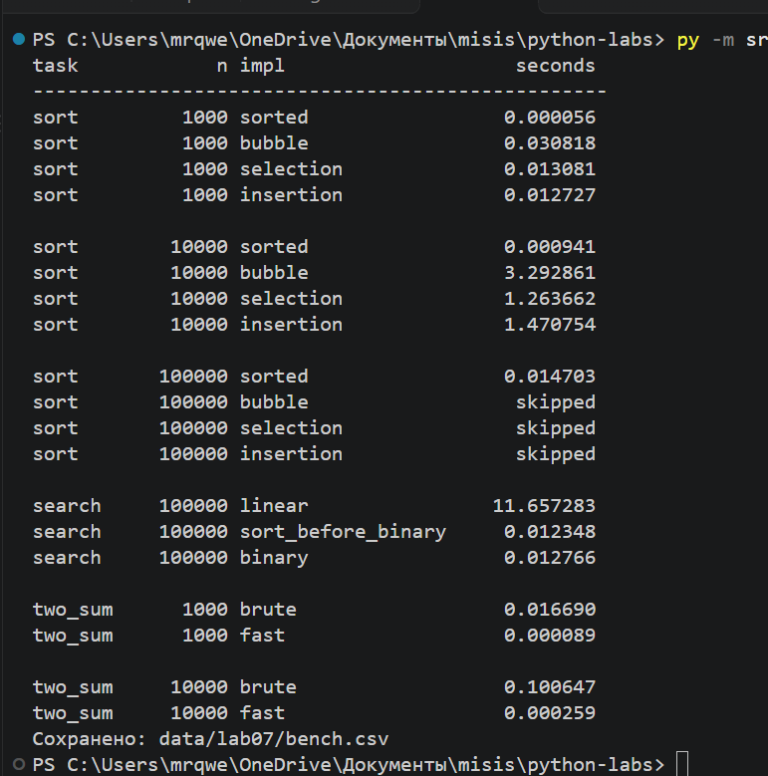
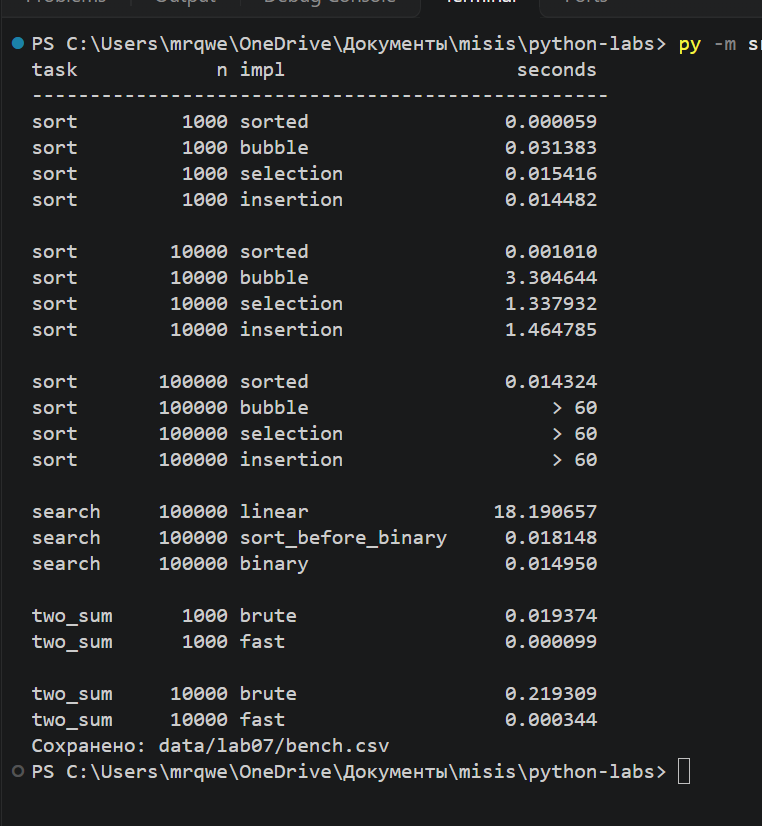
update laba07 benchmark screenshot

Changed region(s): [[0.0, 0.0, 1.0, 1.0]]

diff --git a/README.md b/README.md
@@ -89,8 +89,8 @@ py -m src.lab07.bench
 ```text
 task            n impl                    seconds
 --------------------------------------------------
-sort         1000 sorted                 0.000056
-sort         1000 bubble                 0.030818
+sort         1000 sorted                 0.000059
+sort         1000 bubble                 0.031383
 ...
 Сохранено: data/lab07/bench.csv
 ```
@@ -99,20 +99,20 @@ sort         1000 bubble                 0.030818
 
 ### Выводы
 
-При увеличении n с 1 000 до 10 000 пузырёк замедлился примерно в 107 раз:
-0,030818 → 3,292861 с. Это согласуется с квадратичной сложностью O(n²),
+При увеличении n с 1 000 до 10 000 пузырёк замедлился примерно в 105 раз:
+0,031383 → 3,304644 с. Это согласуется с квадратичной сложностью O(n²),
 при которой десятикратный рост размера даёт примерно стократный рост работы.
-У `sorted` время выросло примерно в 16,8 и 15,6 раза на соседних размерах:
+У `sorted` время выросло примерно в 17,1 и 14,2 раза на соседних размерах:
 рост O(n log n) существенно медленнее квадратичного, а точные отношения зависят
-от данных и условий измерения. На 100 000 элементов `sorted` затратил 0,014703 с;
+от данных и условий измерения. На 100 000 элементов `sorted` затратил 0,014324 с;
 свои квадратичные сортировки пропущены по ограничению размера.
 
 Бинарный поиск требует отсортированного списка, иначе отбрасывание половины
-диапазона некорректно. На 10 000 запросов линейный поиск затратил 11,657283 с,
-бинарный — 0,012766 с, подготовка — 0,012348 с. С учётом сортировки бинарный
-вариант занял 0,025114 с, выигрыш составил примерно 464 раза.
+диапазона некорректно. На 10 000 запросов линейный поиск затратил 18,190657 с,
+бинарный — 0,014950 с, подготовка — 0,018148 с. С учётом сортировки бинарный
+вариант занял 0,033098 с, выигрыш составил примерно 550 раз.
 Сортировка окупается при многократных запросах; по средним временам этого замера —
-примерно с 11-го запроса. В Two Sum словарь оказался быстрее перебора;
+примерно с 10-го запроса. В Two Sum словарь оказался быстрее перебора;
 время зависит и от положения найденной пары. Проверка выполнила 798 проверок,
 расхождений на итоговом прогоне нет. При подготовке исправлены возврат `-1`
 в бинарном поиске и запись просмотренных чисел в словарь в быстром Two Sum.

diff --git a/src/lab07/README.md b/src/lab07/README.md
@@ -87,8 +87,8 @@ py -m src.lab07.bench
 ```text
 task            n impl                    seconds
 --------------------------------------------------
-sort         1000 sorted                 0.000056
-sort         1000 bubble                 0.030818
+sort         1000 sorted                 0.000059
+sort         1000 bubble                 0.031383
 ...
 Сохранено: data/lab07/bench.csv
 ```
@@ -97,20 +97,20 @@ sort         1000 bubble                 0.030818
 
 ## Выводы
 
-При увеличении n с 1 000 до 10 000 пузырёк замедлился примерно в 107 раз:
-0,030818 → 3,292861 с. Это согласуется с квадратичной сложностью O(n²),
+При увеличении n с 1 000 до 10 000 пузырёк замедлился примерно в 105 раз:
+0,031383 → 3,304644 с. Это согласуется с квадратичной сложностью O(n²),
 при которой десятикратный рост размера даёт примерно стократный рост работы.
-У `sorted` время выросло примерно в 16,8 и 15,6 раза на соседних размерах:
+У `sorted` время выросло примерно в 17,1 и 14,2 раза на соседних размерах:
 рост O(n log n) существенно медленнее квадратичного, а точные отношения зависят
-от данных и условий измерения. На 100 000 элементов `sorted` затратил 0,014703 с;
+от данных и условий измерения. На 100 000 элементов `sorted` затратил 0,014324 с;
 свои квадратичные сортировки пропущены по ограничению размера.
 
 Бинарный поиск требует отсортированного списка, иначе отбрасывание половины
-диапазона некорректно. На 10 000 запросов линейный поиск затратил 11,657283 с,
-бинарный — 0,012766 с, подготовка — 0,012348 с. С учётом сортировки бинарный
-вариант занял 0,025114 с, выигрыш составил примерно 464 раза.
+диапазона некорректно. На 10 000 запросов линейный поиск затратил 18,190657 с,
+бинарный — 0,014950 с, подготовка — 0,018148 с. С учётом сортировки бинарный
+вариант занял 0,033098 с, выигрыш составил примерно 550 раз.
 Сортировка окупается при многократных запросах; по средним временам этого замера —
-примерно с 11-го запроса. В Two Sum словарь оказался быстрее перебора;
+примерно с 10-го запроса. В Two Sum словарь оказался быстрее перебора;
 время зависит и от положения найденной пары. Проверка выполнила 798 проверок,
 расхождений на итоговом прогоне нет. При подготовке исправлены возврат `-1`
 в бинарном поиске и запись просмотренных чисел в словарь в быстром Two Sum.
